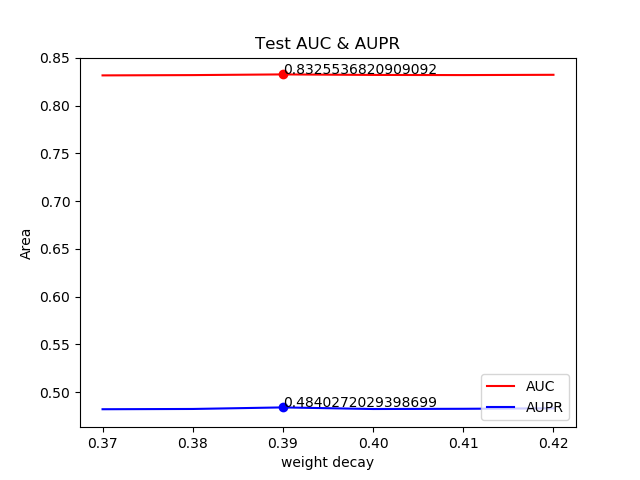
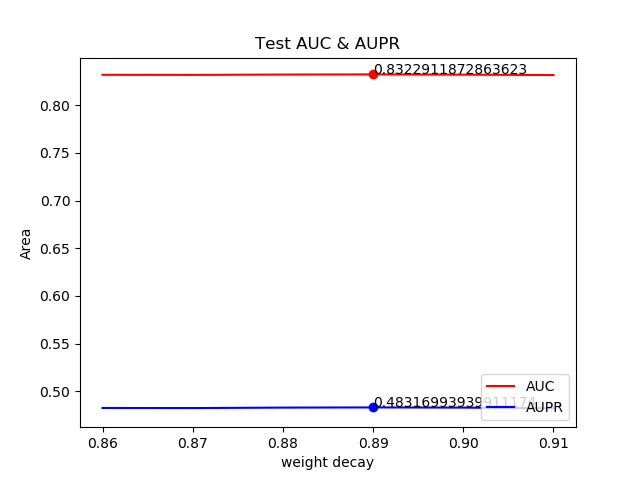
Add comments

diff --git a/DDIQuery/drug2vector.py b/DDIQuery/drug2vector.py
@@ -1,3 +1,10 @@
+################################################################
+#
+# drug2vector.py
+# Main program
+# Execute this file to train and evaluate the neural network
+#
+################################################################
 import numpy as np
 import scipy.io as io
 import torch 
@@ -11,16 +18,30 @@ from batch import *
 import sys
 import matplotlib.pyplot as plt
 
-# parameters
-mode = 'blind_tuning'	 # Mode: 'whole', 'normal', 'blind', 'blind_tuning'
+# Parameters
+# Mode: 'whole': Train with the whole adjacent matrix(depreciated)
+#		'normal': Train with the adjacent matrix with some '1's are eroded
+#		'blind': Train with the submatrix of the adjacent matrix (CV enabled)
+#		'blind_tuning': Same as 'blind' except run in different parameters
+# epoch: Number of training epoch
+# folds: Number of folds in cross-validation
+# embed_size: Number of neurons in hidden layer(size of embedded vector)
+# weight_decay: L2 Regularization Factor of the neural network
+# ridge_alpha: L2 Regularization Factor of the linear extrapolation
+# learning_rate: learning_rate of the neural network
+# criterion: Loss function of the neural network
+mode = 'blind_tuning'
 radius = 1
-epoch = 80
+epoch = 80 if mode == 'blind_tuning' else 150
+folds = 10
 embed_size = 80
-weight_decay = 6.3e-5   # L2 Regularization
-ridge_alpha = 0.6
+weight_decay = 6.3e-5
+ridge_alpha = 0.89
 learning_rate = 5.4e-3
 criterion = nn.BCELoss()
 
+# Neural Network
+# Contains 2 linear layer and with sigmoid activation layer
 class Net(nn.Module):
 	def __init__(self, onehot_size, embed_size):
 		super(Net, self).__init__()
@@ -43,6 +64,7 @@ class Net(nn.Module):
 		self.fcA1.weight.data = torch.FloatTensor(a)
 		self.fcB1.weight.data = torch.FloatTensor(b)
 
+# Depreciated evaluation method
 def enrichment(order, labels):
 	bins = np.zeros(shape=(order.shape[1]))
 	count = order.shape[0]
@@ -56,6 +78,7 @@ def enrichment(order, labels):
 		bins[i] += bins[i-1]
 	return sum(bins) / bins.shape[0] / count
 
+# Linear extrapolation of the unknown drugs based on the feature
 def updateweight(target, train_feat, test_feat):
 	reg = Ridge(alpha=ridge_alpha)
 	reg.fit(train_feat, target)
@@ -63,6 +86,7 @@ def updateweight(target, train_feat, test_feat):
 	# print('lr score:', reg.score(train_feat, target))
 	return test_pred
 
+# Evaluation Method: Receiver-Operating Characteristic curve plotting
 def export_roc_curve(y_true, y_pred, auc):
 	fpr, tpr, threshold = metrics.roc_curve(y_true, y_pred)
 	plt.plot(fpr, tpr, label='ROC curve (area = %0.3f)' % auc)
@@ -74,6 +98,7 @@ def export_roc_curve(y_true, y_pred, auc):
 	plt.savefig('ROC.png')
 	plt.clf()
 
+# Evaluation Method: Precision-Recall curve plotting
 def export_pr_curve(y_true, y_pred, aupr):
 	prec, rec, threshold = metrics.precision_recall_curve(y_true, y_pred)
 	plt.plot(rec, prec, label='PR curve (area = %0.3f)' % aupr)
@@ -84,6 +109,7 @@ def export_pr_curve(y_true, y_pred, aupr):
 	plt.savefig('PRC.png')
 	plt.clf()
 
+# Train with the adjacent matrix with some '1's are eroded
 def load_normal_set():
 
 	train_repos, test_repos = loadnormaldata(radius)
@@ -127,15 +153,17 @@ def load_normal_set():
 			np.save(str(i) + ".npy", embed.data.numpy())
 			print("saved!")
 
+			
+#		'blind': Train with the submatrix of the adjacent matrix (CV enabled)
 def load_blind_set():
 
-	batch = loadblinddata(radius, 10)
-	auc1s = np.zeros(10)
-	aupr1s = np.zeros(10)
-	auc3s = np.zeros(10)
-	aupr3s = np.zeros(10)
-	auc13s = np.zeros(10)
-	aupr13s = np.zeros(10)
+	batch = loadblinddata(radius, folds)
+	auc1s = np.zeros(folds)
+	aupr1s = np.zeros(folds)
+	auc3s = np.zeros(folds)
+	aupr3s = np.zeros(folds)
+	auc13s = np.zeros(folds)
+	aupr13s = np.zeros(folds)
 	
 	for index, repos in enumerate(batch.repos):
 		train_repos, test_repos = repos["train"], repos["test"]
@@ -279,7 +307,7 @@ def load_blind_set():
 	# print('all x tr', np.mean(auc13s), np.mean(aupr13s))
 	
 	return test_auc, test_aupr
-
+	
 if __name__ == "__main__":
 	np.random.seed()
 	if mode == 'normal':
@@ -288,7 +316,7 @@ if __name__ == "__main__":
 		load_blind_set()
 	elif mode == 'blind_tuning':
 		aucs, auprs = [], []
-		index = np.arange(0.37, 0.43, 0.01)
+		index = np.arange(0.86, 0.91, 0.01)
 		for i in index:
 			ridge_alpha = i
 			print('ridge_alpha: ', ridge_alpha)

diff --git a/DDIQuery/batch.py b/DDIQuery/batch.py
@@ -1,11 +1,16 @@
+################################################################
+#
+# batch.py
+# Produce batch for training
+#
+################################################################
 import scipy.io as io
 import numpy as np
 import torch 
 import networkx as nx
 from sklearn.model_selection import KFold
 
-test_ratio = 0.15
-
+# Repository: Batch management
 class Repository():
 	def __init__(self, adjcent_matrix, input_ids, output_ids, drug_onehot, drug_feat):
 		self.adjcent_matrix = adjcent_matrix
@@ -26,7 +31,7 @@ class Repository():
 		self.offset = 0
 		self.Epoch = True
 
-
+	# Generate batch 
 	def miniBatch(self, batch_size):
 		if self.offset + batch_size <= self.length:
 			posi = self.positions[self.offset : self.offset + batch_size]
@@ -48,6 +53,7 @@ class Repository():
 		self.offset = 0
 		self.Epoch = True
 
+# BlindBatch: Cross validation batch management (For blind mode)
 class BlindBatch():
 	def __init__(self, adjcent_matrix, k, feature_matrix, radius):
 		self.adjcent_matrix = adjcent_matrix
@@ -71,7 +77,7 @@ class BlindBatch():
 			test_repo = Repository(adjcent_matrix, train_ids, test_ids, test_onehot, feature_matrix)
 			self.repos.append({'train': train_repo, 'test': test_repo})
 	
-
+# Load the data file
 def loadBMCData(filename):
 	D = io.loadmat(filename)
 	triple = D["DDI_triple"]
@@ -82,6 +88,7 @@ def loadBMCData(filename):
 	pca_structure = D["pca_structure"]
 	return binary, triple, f_offside, pca_offside, f_structure, pca_structure
 
+# same as np.flatten
 def flat(matrix):
 	row, col = np.where(matrix>0)
 	m  = matrix
@@ -89,6 +96,7 @@ def flat(matrix):
 		m[row[i], col[i]] = 1
 	return m
 
+# Depreciated
 def dilute(adjcent_matrix, step):
 	m = adjcent_matrix + np.identity(adjcent_matrix.shape[0])
 	temp = adjcent_matrix + np.identity(adjcent_matrix.shape[0])
@@ -102,7 +110,7 @@ def dilute(adjcent_matrix, step):
 		temp += m_list[i]
 	return flat(temp) - np.identity(adjcent_matrix.shape[0])
 
-
+# Erode '1's in the adjacent matrix(for normal mode)
 def erosion(adjcent_matrix, positions):
 	m  = np.copy(adjcent_matrix)
 	for row, col in positions:
@@ -129,7 +137,7 @@ def loadnormaldata(radius):
 	adjcent_matrix, _, f1, f2, f3, f4 = loadBMCData("data/DDI.mat")
 	# adjcent_matrix, f3 = loadBMCData("data/DDI.mat")
 
-	test_posi = choosenormaltest(adjcent_matrix, test_ratio)
+	test_posi = choosenormaltest(adjcent_matrix, 0.15)
 
 	test_matrix = np.zeros(shape=adjcent_matrix.shape)
 	for row, col in test_posi:

diff --git a/DDIQuery/README.md b/DDIQuery/README.md
@@ -1,2 +1,11 @@
-# drug2vec
-a linear method to compress drug drug interactions into linear vectors
+# A Drug Embedding Method with Drug-Drug Interaction
+A linear method to compress drug drug interactions into linear vectors \
+Run 
+```console
+python drug2vector.py
+```
+
+## File Description
+/data/: training data(drug names, drug-drug interaction matrix) \
+/batch.py: Generating batches for training and evaluating \
+/drug2vector.py: Main program. Run the neural network
